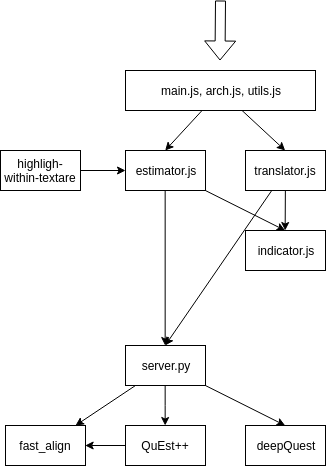
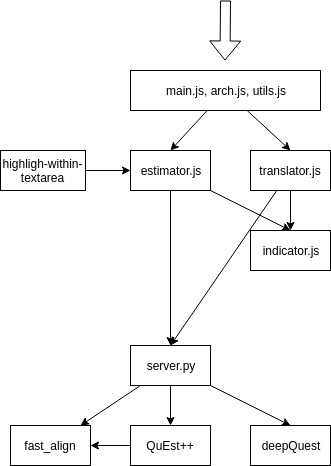
fix typo in doc diagram

diff --git a/v2/web/docs/TECH.md b/v2/web/docs/TECH.md
@@ -8,7 +8,6 @@ Ptakopět has two main components:
 
 The top-level design and communication between all components is described in the following diagram:
 ![Top level design](top_level_design.png)
-(Typo: text are>>a<<)
 
 ## Frontend
 The frontend is written in plain JavaScript with some minor help of jQuery.
